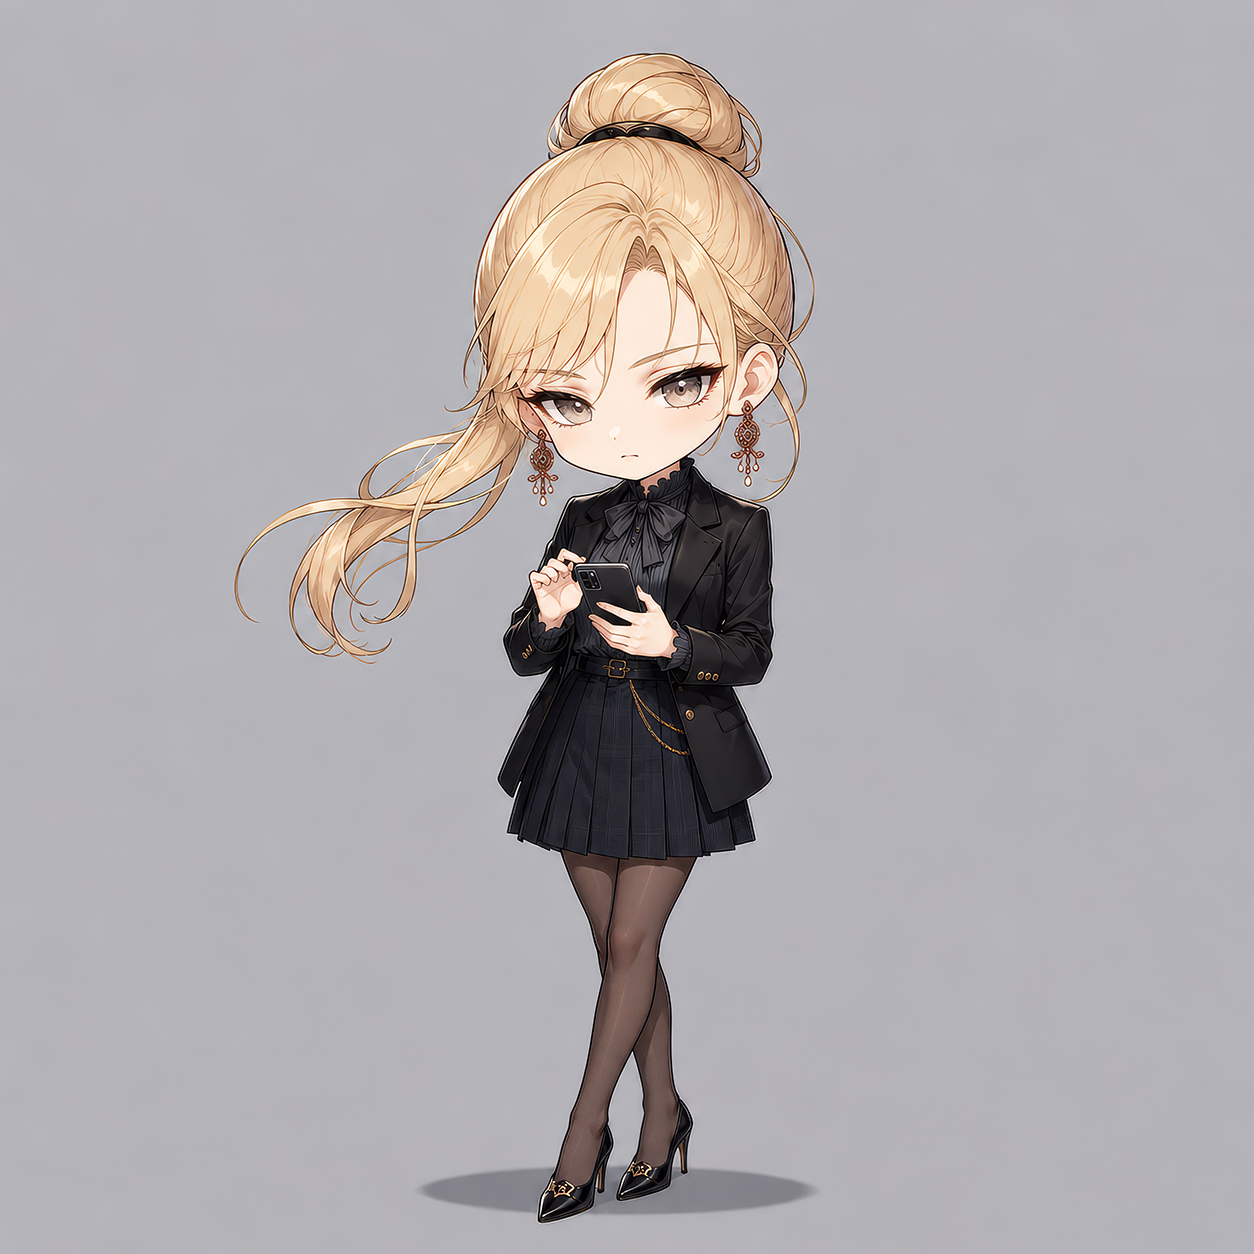
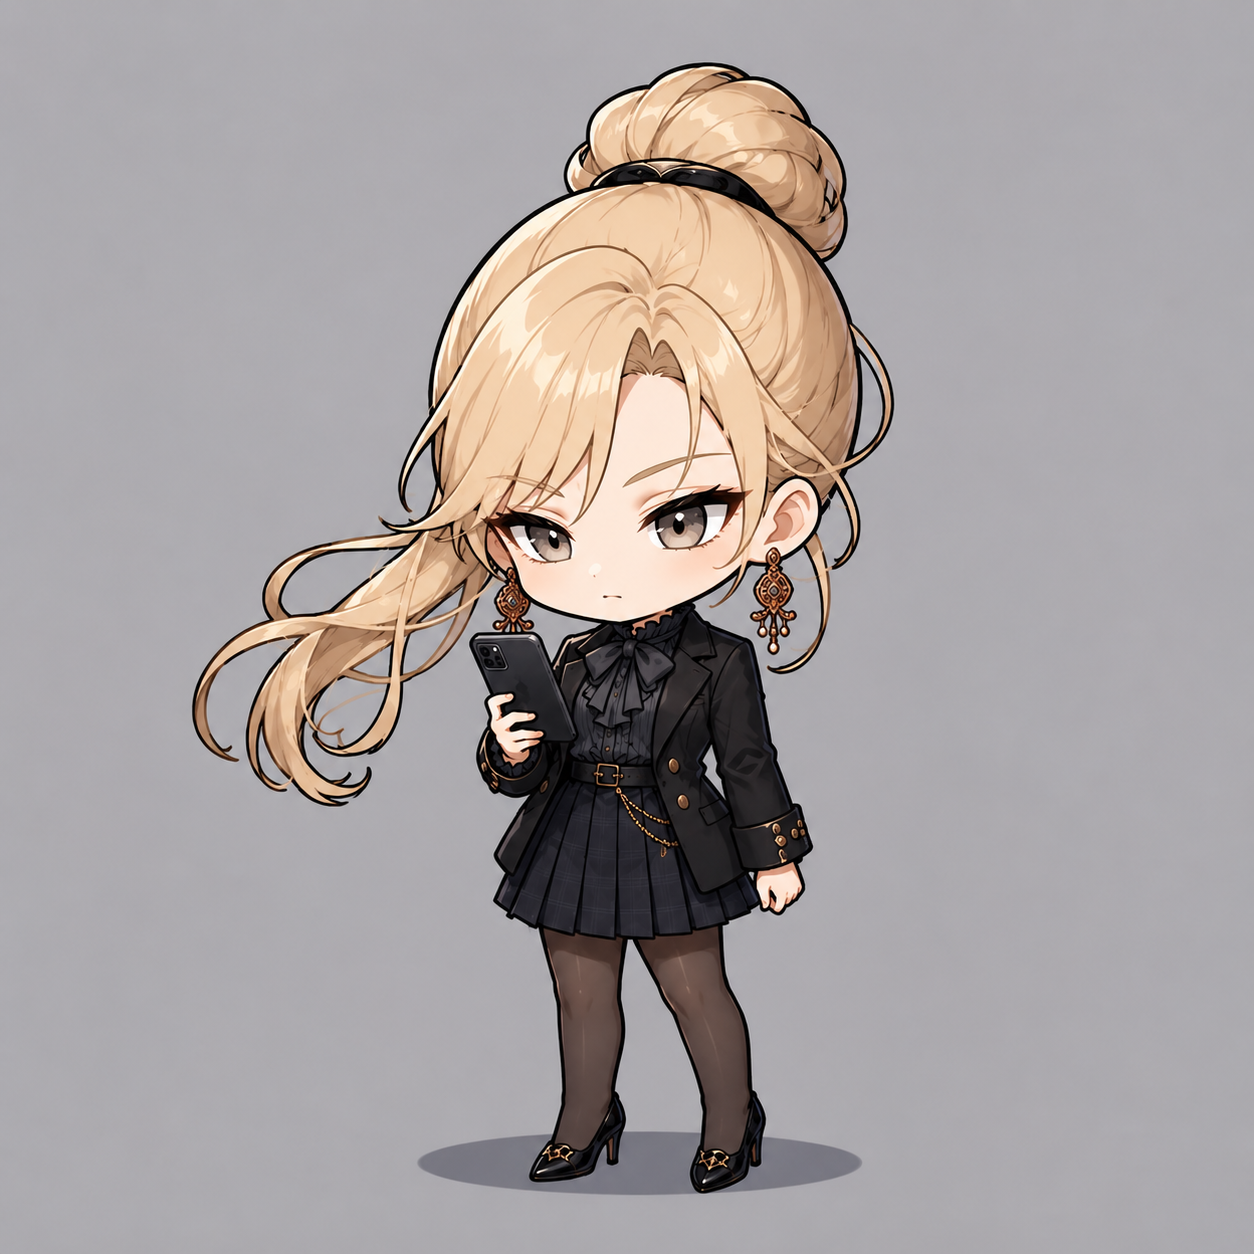
Update Sherie chibi artwork

Changed region(s): [[0.1555, 0.0311, 0.7153, 0.9952]]

diff --git a/index.html b/index.html
@@ -59,6 +59,15 @@
 
             <div class="date-divider"><span>22 August 2026 · Latest updates</span></div>
 
+            <article class="dispatch reveal" id="update-sherie-chibi-revision">
+              <div class="dispatch-avatar avatar-violet" aria-hidden="true">SH</div>
+              <div class="dispatch-body">
+                <div class="dispatch-author"><strong>Visual Archive</strong><span>22 Aug 2026 · Sherie</span></div>
+                <p>Sherie's chibi artwork has been updated across her character card and Gallery entry.</p>
+                <a class="button button-secondary dispatch-button" href="characters.html">View Sherie's record <span aria-hidden="true">→</span></a>
+              </div>
+            </article>
+
             <article class="dispatch reveal" id="update-profile-portrait-rules">
               <div class="dispatch-avatar avatar-green" aria-hidden="true">PX</div>
               <div class="dispatch-body">
